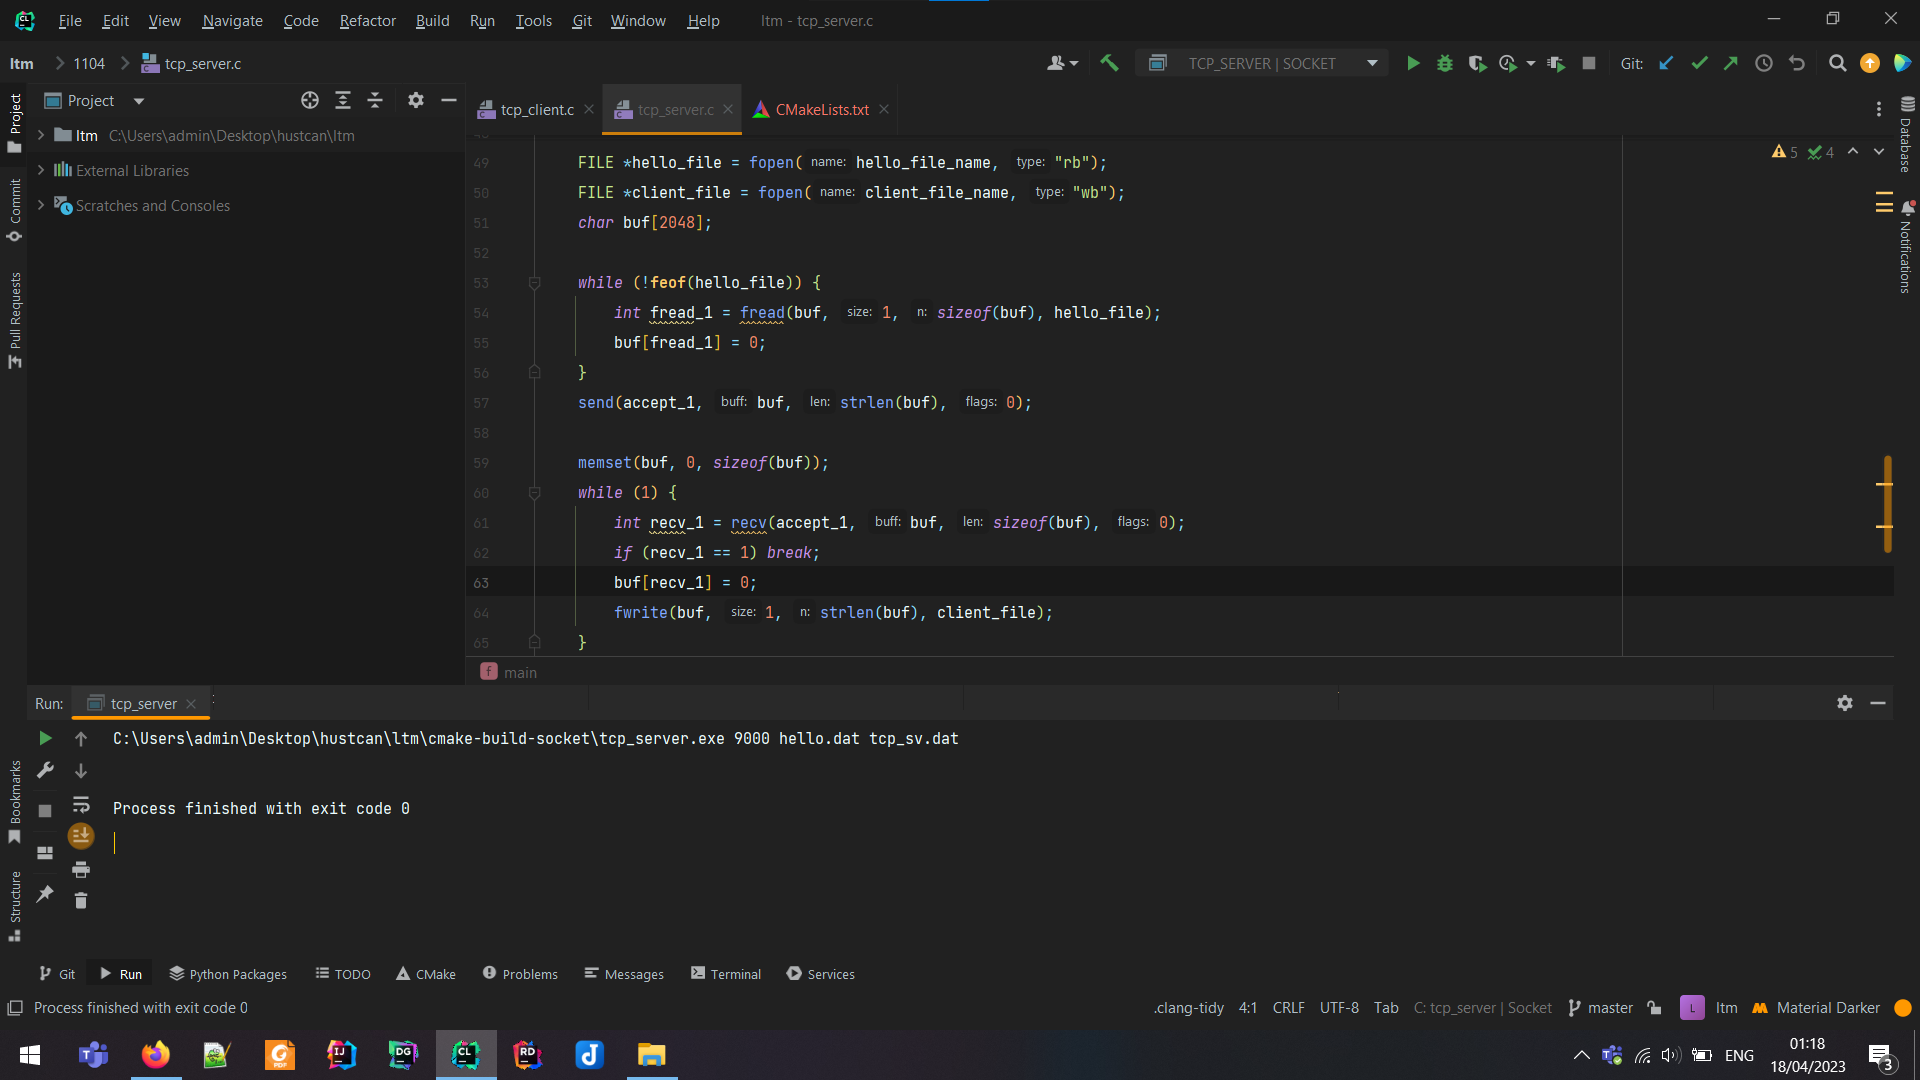
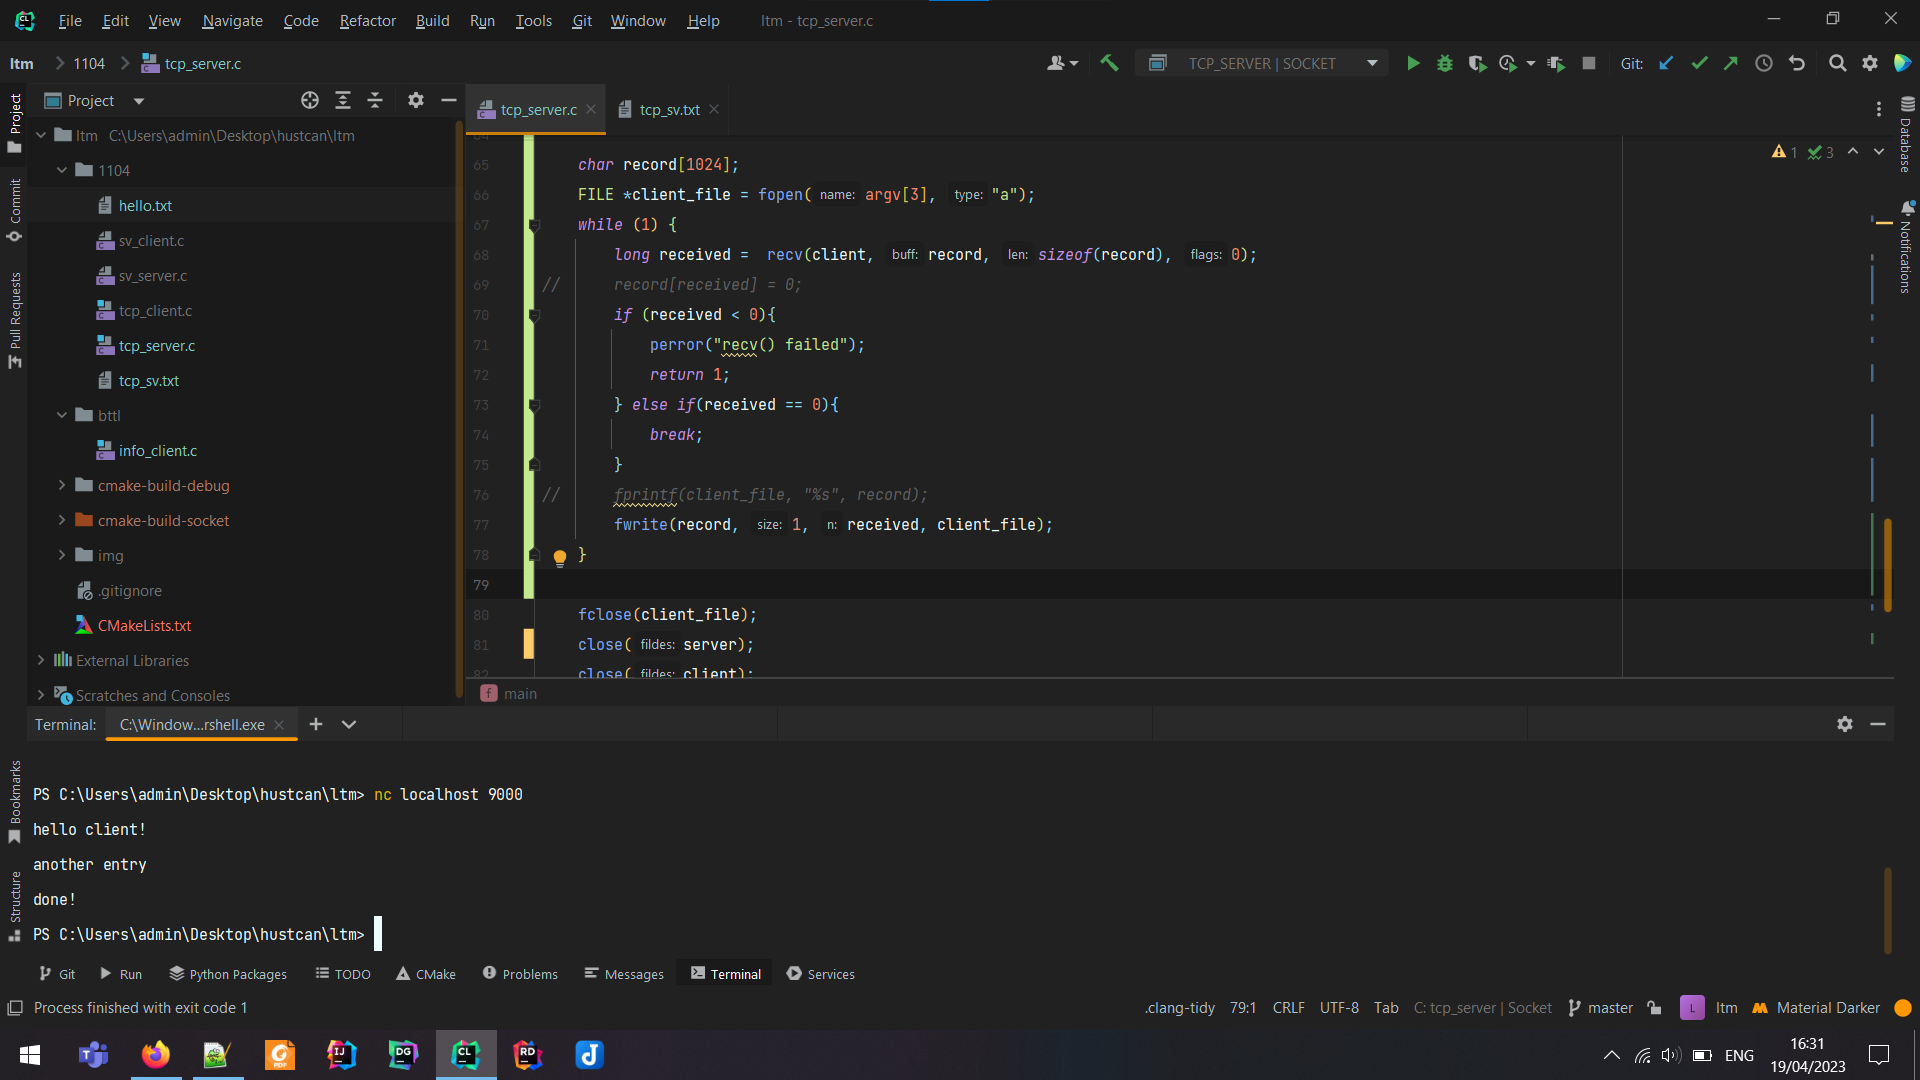
tcp_sv done

diff --git a/1104/tcp_server.c b/1104/tcp_server.c
@@ -7,65 +7,79 @@
 
 
 int main(int argc, char const *argv[]) {
-	int port;
+	char *a;
 	char f_hello[256], f_rec[256];
 	if (argc != 4) {
 		printf("wrong number of args\n");
 		return 1;
 	}
 
-	char *a;
-	port = (int) strtol(argv[1], &a, 10);
-	strcpy(f_hello, argv[2]);
 	strcpy(f_rec, argv[3]);
 
-	int listener = socket(AF_INET, SOCK_STREAM, IPPROTO_TCP);
-	struct sockaddr_in sck_addr;
-	sck_addr.sin_family = AF_INET;
-	sck_addr.sin_addr.s_addr = inet_addr("127.0.0.1");
-	sck_addr.sin_port = htons(port);
+//	create socket
+	int server = socket(AF_INET, SOCK_STREAM, IPPROTO_TCP);
+//	setup socket
+	struct sockaddr_in server_addr;
+	server_addr.sin_family = AF_INET;
+	server_addr.sin_addr.s_addr = htonl(INADDR_ANY);    // bind to all interfaces
+	//  inet_addr("127.0.0.1") - bind to localhost only
+	server_addr.sin_port = htons((int) strtol(argv[1], &a, 10));
 
-	if (bind(listener, (struct sockaddr *) &sck_addr, sizeof(sck_addr))) {
+	if (bind(server, (struct sockaddr *) &server_addr, sizeof(server_addr)) == -1) {
 		perror("bind() failed");
 		return 1;
 	}
-	if (listen(listener, 5)) {
+	if (listen(server, 5) == -1) {    // max client allowed 5
 		perror("listen() failed");
 		return 1;
 	}
 
-	struct sockaddr_in sck_addr_client;
-	int sck_addr_client_len = sizeof(sck_addr_client);
-	int client = accept(listener, (struct sockaddr *) &sck_addr_client, &sck_addr_client_len);
-
+//	accept connection from client
+	struct sockaddr_in client_addr;
+	int c_addr_len = sizeof(client_addr);
+	int client = accept(server, (struct sockaddr *) &client_addr, &c_addr_len);
 	if (client == -1) {
 		perror("accept() failed");
 		return 1;
 	}
 
-	FILE *hello_file;
-	if ((hello_file = fopen(f_hello, "w+")) == NULL) return 1;
-		FILE *client_file = fopen(f_rec, "w+");
-	char buf[2048];
-
-	while (!feof(hello_file)) {
-		int end = (int) fread(buf, 1, sizeof(buf), hello_file);
-		buf[end] = 0;
+//	send hello from file to client
+	char greetings[256];
+	long length;
+	FILE *hello_file = fopen(argv[2], "r+");
+	if (hello_file == NULL) {
+		perror("fopen() failed");
+		return 1;
 	}
-	puts(buf);
-//	send(client, buf, strlen(buf), 0);
-
-//	memset(buf, 0, sizeof(buf));
-//	while (1) {
-//		int end = (int) recv(client, buf, sizeof(buf), 0);
-//		if (end <= 0) break;
-//		buf[end] = 0;
-//		fwrite(buf, 1, strlen(buf), client_file);
-//	}
-
+	fseek(hello_file, 0,SEEK_END);
+	length = ftell(hello_file);
+	fseek(hello_file, 0 , SEEK_SET);
+	fread(greetings, 1, length, hello_file);
+	greetings[length] = 0;
+	if(send(client, greetings, strlen(greetings),0) == -1){
+		perror("send() failed");
+		return 1;
+	}
 	fclose(hello_file);
+
+	char record[1024];
+	FILE *client_file = fopen(argv[3], "a");
+	while (1) {
+		long received =  recv(client, record, sizeof(record), 0);
+		if (received < 0){
+			perror("recv() failed");
+			return 1;
+		} else if(received == 0){
+			break;
+		}
+		fwrite(record, 1, received, client_file);
+	}
 	fclose(client_file);
-	close(listener);
+
+	close(server);
 	close(client);
 	return 0;
 }
+
+
+

diff --git a/bttl/info_client.c b/bttl/info_client.c
@@ -5,17 +5,28 @@
 #include <arpa/inet.h>
 #include <unistd.h>
 
-char* fgets_wrapper(char*, int);
+void fgets_wrapper(char*, int);
 
 int main(int argc, char *argv[]){
 	char buffer[256];
-	puts(fgets_wrapper(buffer, sizeof buffer));
+	char* x;
+
+	printf("ten may");
+	char comp[256];
+	fgets_wrapper(comp, sizeof comp);
+	printf("so o dia");
+	fgets_wrapper(comp, sizeof comp);
+	long num = strtol(comp, &x, 10);
+	for (int i = 0; i < num; ++i) {
+		printf("iter");
+	}
+	
     return 0;
 }
 
-char* fgets_wrapper(char* s, int s_size){
+void fgets_wrapper(char* s, int s_size){
 	if((fgets(s, s_size, stdin) != NULL)) {
 		s[strcspn(s, "\r\n")] = 0;
-		return s;
+		return;
 	}
 }
